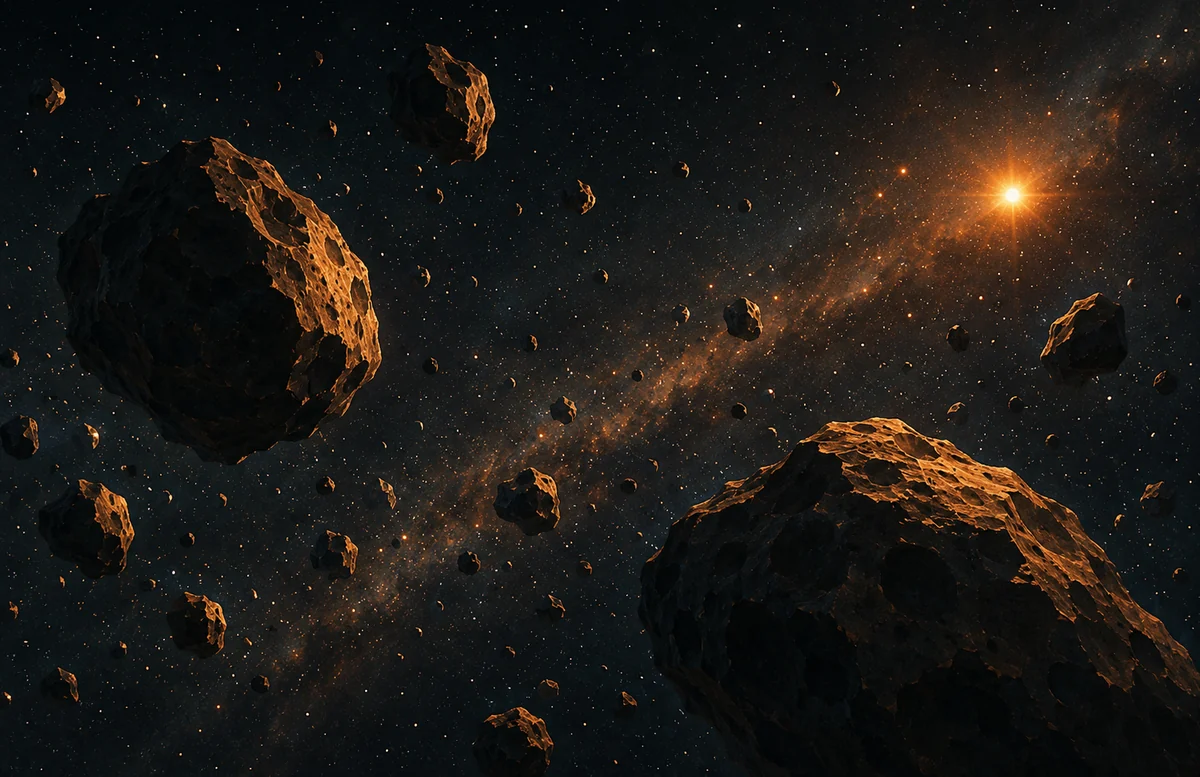
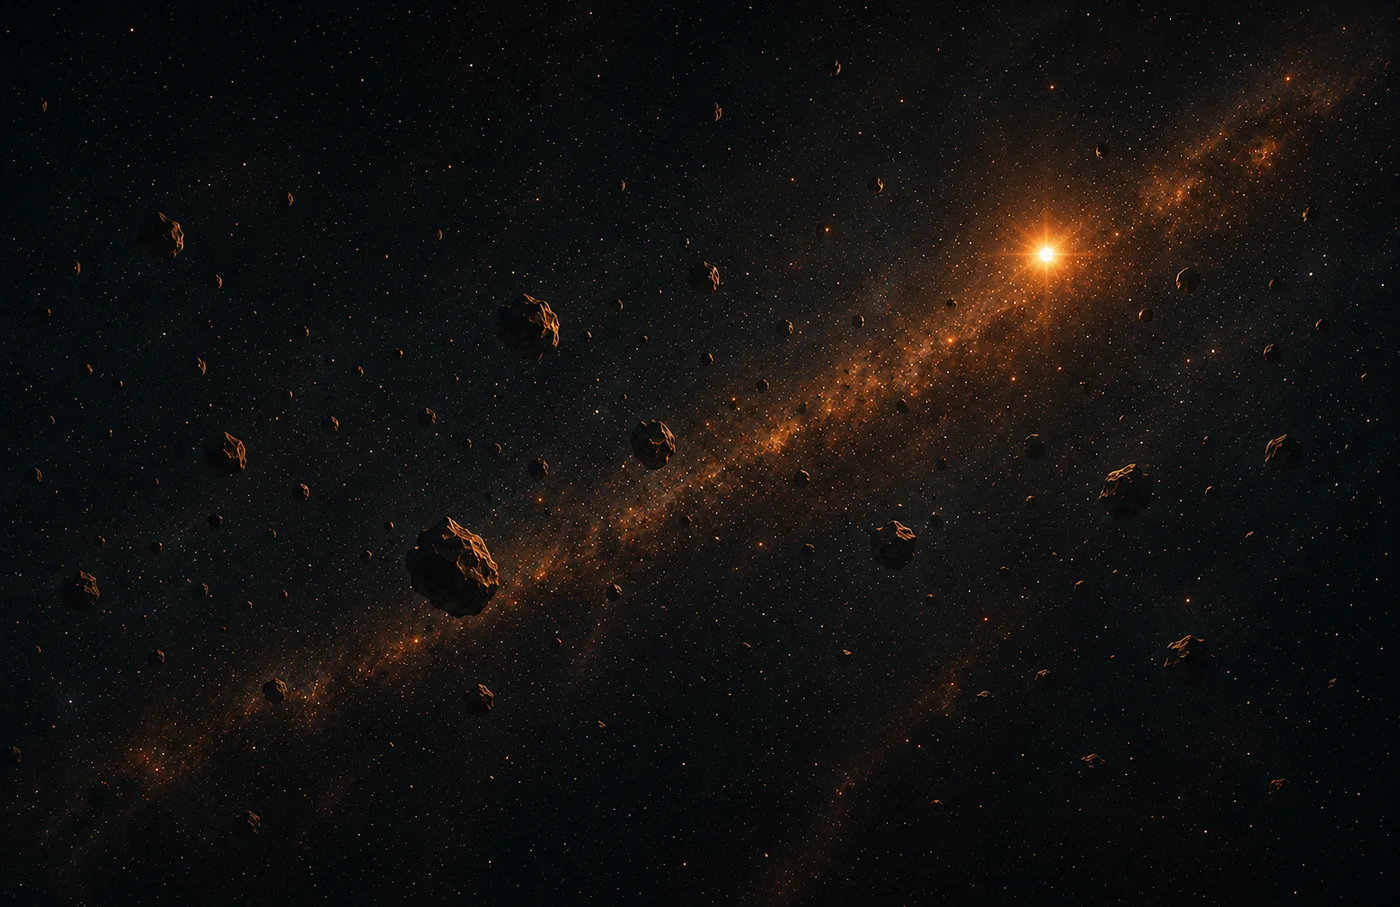
Entry screen: taller name plate, distant viewport art, CREATE/JOIN colours
- swap in the new taller game_label asset (ratio ~1600/563); .brand is
  width-controlled with aspect-ratio, vertical layout constants retuned
- regenerate the four viewport inserts from the new "distant" sources
  plus the error screen; keep object-fit: cover (no CSS zoom)
- pick the normal viewport image at random once on mount (useState
  initializer), stable across renders; error screen stays out of the pool
  and the same image is restored when the error clears
- restore CREATE = warm amber / JOIN = aged warm cyan indicator lighting
- centre ПОЗЫВНОЙ and КОД КОМНАТЫ on their engraved plates

diff --git a/apps/web/src/console/console.css b/apps/web/src/console/console.css
@@ -53,6 +53,8 @@
   --warm-glow: #d95a1a; /* outer glow, low-intensity emissive */
   --warm-metal: #a9825c; /* muted metallic highlight, inactive edges */
   --warm-disabled: rgba(216, 190, 148, 0.45);
+  --warm-cyan: #9fc9ce; /* JOIN active — aged cyan indicator bulb, not LED */
+  --warm-cyan-bright: #b7d9d8; /* JOIN brighter highlight */
 
   /* local visual constants for this screen */
   --room-controls-gap: 4%;
@@ -146,10 +148,11 @@
 
 .brand {
   left: 5%;
-  top: 31.5%;
+  top: 26.5%;
   width: 90%;
-  /* width controls; height follows the asset's intrinsic ratio — never distort */
-  aspect-ratio: 1600 / 420;
+  /* width controls; height follows the asset's intrinsic ratio — never distort.
+     the new name plate is much taller than the old strip. */
+  aspect-ratio: 1600 / 563;
   background: url("/console/label.webp") 50% 50% / contain no-repeat;
 }
 
@@ -157,7 +160,7 @@
 
 .mode {
   left: 5%;
-  top: 45.5%;
+  top: 45%;
   width: 90%;
   aspect-ratio: 1400 / 248;
   background: url("/console/mode.webp") center / contain no-repeat;
@@ -187,20 +190,30 @@
   right: 6.5%;
   width: 41%;
 }
-/* selected: the dark material is lit from within by the same warm amber
-   cockpit light on both sides — soft, no hard edge, never blue or white */
-.mode__seg--on {
-  color: var(--warm-cream);
+/* selected: the dark material is lit from within by a physical indicator
+   bulb — warm amber for CREATE, aged cyan for JOIN. Soft, no hard edge,
+   never white or neon. Two clearly different illuminated controls. */
+.mode__seg--left.mode__seg--on {
+  color: #f2c879;
   text-shadow:
-    0 0 4px rgba(255, 192, 120, 0.35),
-    0 0 10px rgba(255, 138, 50, 0.18);
-}
-.mode__seg--left.mode__seg--on,
-.mode__seg--right.mode__seg--on {
+    0 0 4px rgba(255, 174, 72, 0.4),
+    0 0 10px rgba(217, 90, 26, 0.18);
   background: radial-gradient(
     ellipse 58% 62% at 50% 52%,
-    rgba(255, 192, 120, 0.2) 0%,
+    rgba(255, 174, 72, 0.28) 0%,
     rgba(255, 138, 50, 0.1) 55%,
+    transparent 78%
+  );
+}
+.mode__seg--right.mode__seg--on {
+  color: var(--warm-cyan);
+  text-shadow:
+    0 0 4px rgba(183, 217, 216, 0.4),
+    0 0 10px rgba(83, 143, 153, 0.16);
+  background: radial-gradient(
+    ellipse 58% 62% at 50% 52%,
+    rgba(111, 175, 185, 0.22) 0%,
+    rgba(83, 143, 153, 0.12) 55%,
     transparent 78%
   );
 }
@@ -209,15 +222,16 @@
 
 .nick {
   left: 5%;
-  top: 54%;
+  top: 55.5%;
   width: 90%;
   aspect-ratio: 1400 / 359;
   background: url("/console/nickname.webp") center / contain no-repeat;
 }
 .nick__label {
   position: absolute;
-  left: 4%;
-  top: 3%;
+  /* centred on the engraved plate between the two screws, not on the module */
+  left: 6%;
+  top: 4%;
   width: 31%;
   height: 19%;
   display: grid;
@@ -284,7 +298,7 @@
    Both children keep their own aspect ratio; only the gap is tuned. */
 .plate {
   left: 5%;
-  top: 66.8%;
+  top: 69%;
   width: 90%;
   aspect-ratio: 1400 / 429;
   background: url("/console/plate.webp") center / contain no-repeat;
@@ -345,10 +359,11 @@
 }
 .code__label {
   position: absolute;
+  /* vertically centred on the raised name plate between its screws */
   left: 22%;
-  top: 4%;
+  top: 6.5%;
   width: 56%;
-  height: 18%;
+  height: 17%;
   display: grid;
   place-items: center;
   pointer-events: none;
@@ -405,7 +420,7 @@
 }
 .splash__brand {
   width: min(86%, 26rem);
-  aspect-ratio: 1600 / 420;
+  aspect-ratio: 1600 / 563;
   background: url("/console/label.webp") center / contain no-repeat;
 }
 .splash__status {

diff --git a/apps/web/src/screens/PreLobby.tsx b/apps/web/src/screens/PreLobby.tsx
@@ -6,14 +6,22 @@ import {
   randomNickname,
 } from "@overcrew/shared";
 import type { RoomApi } from "../net/useRoom";
-import { Viewport } from "../console/Viewport";
+import { Viewport, type ViewportInsert } from "../console/Viewport";
 import { RedButton } from "../console/RedButton";
+
+/** distant space views for the porthole — error screen is NOT in this pool */
+const NORMAL_INSERTS: ViewportInsert[] = ["planet", "horizon", "ship", "asteroid"];
 
 export function PreLobby({ api }: { api: RoomApi }) {
   const [mode, setMode] = useState<"create" | "join">("create");
   const [nickname, setNickname] = useState("");
   const [suggestion, setSuggestion] = useState(randomNickname);
   const [code, setCode] = useState("");
+  // picked once when the start screen mounts; stays stable across re-renders
+  // and is restored after an error clears
+  const [screenInsert] = useState(
+    () => NORMAL_INSERTS[Math.floor(Math.random() * NORMAL_INSERTS.length)],
+  );
 
   const offline = api.conn !== "online";
   const effectiveName = nickname.trim() || suggestion;
@@ -52,10 +60,7 @@ export function PreLobby({ api }: { api: RoomApi }) {
   return (
     <div className="console-screen">
       <div className="console">
-        <Viewport
-          insert={mode === "join" ? "ship" : "planet"}
-          error={error !== null}
-        />
+        <Viewport insert={screenInsert} error={error !== null} />
         <div className="console__frame" aria-hidden="true" />
         {error && (
           <div className="vp__err" role="alert">
